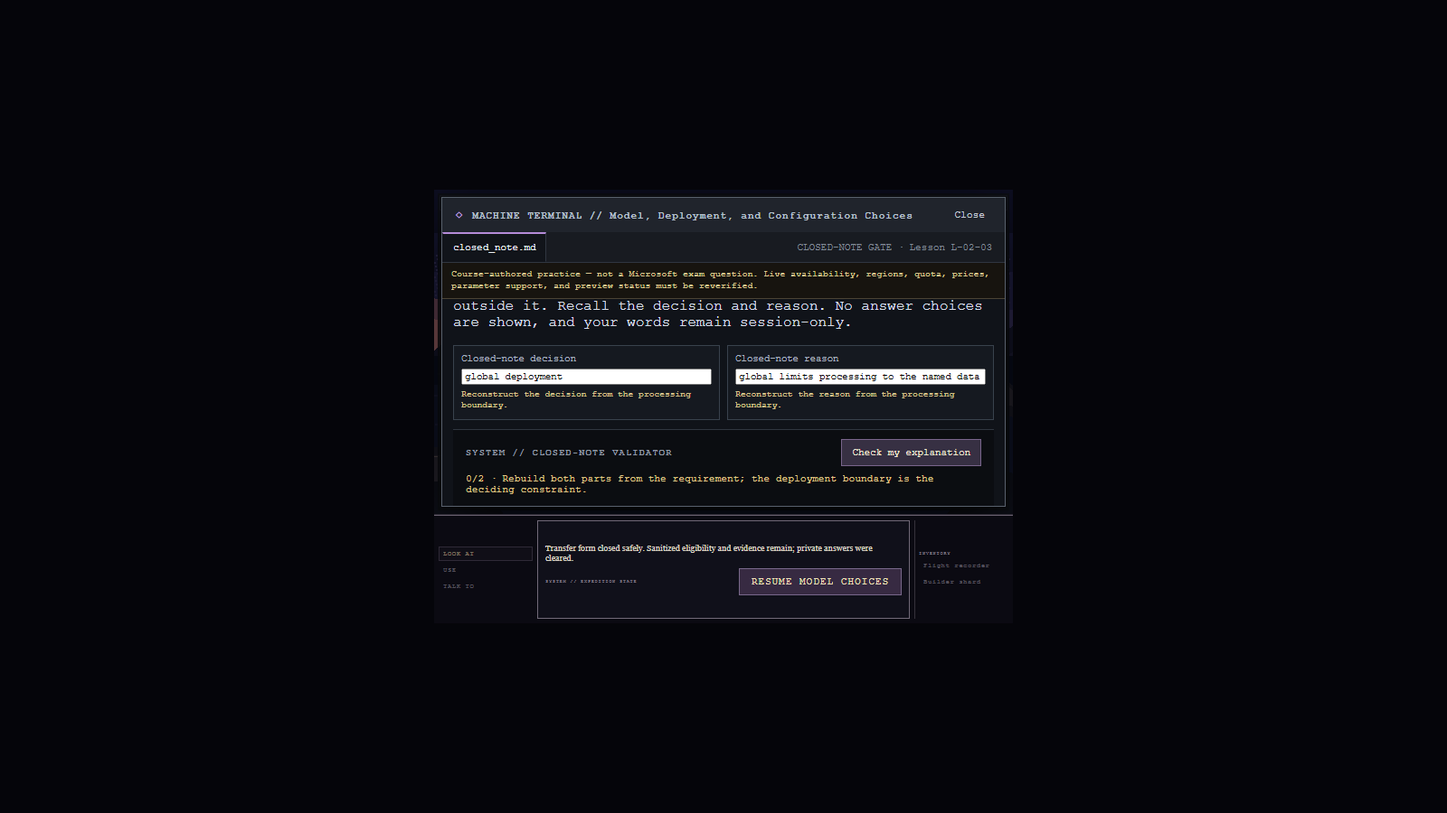
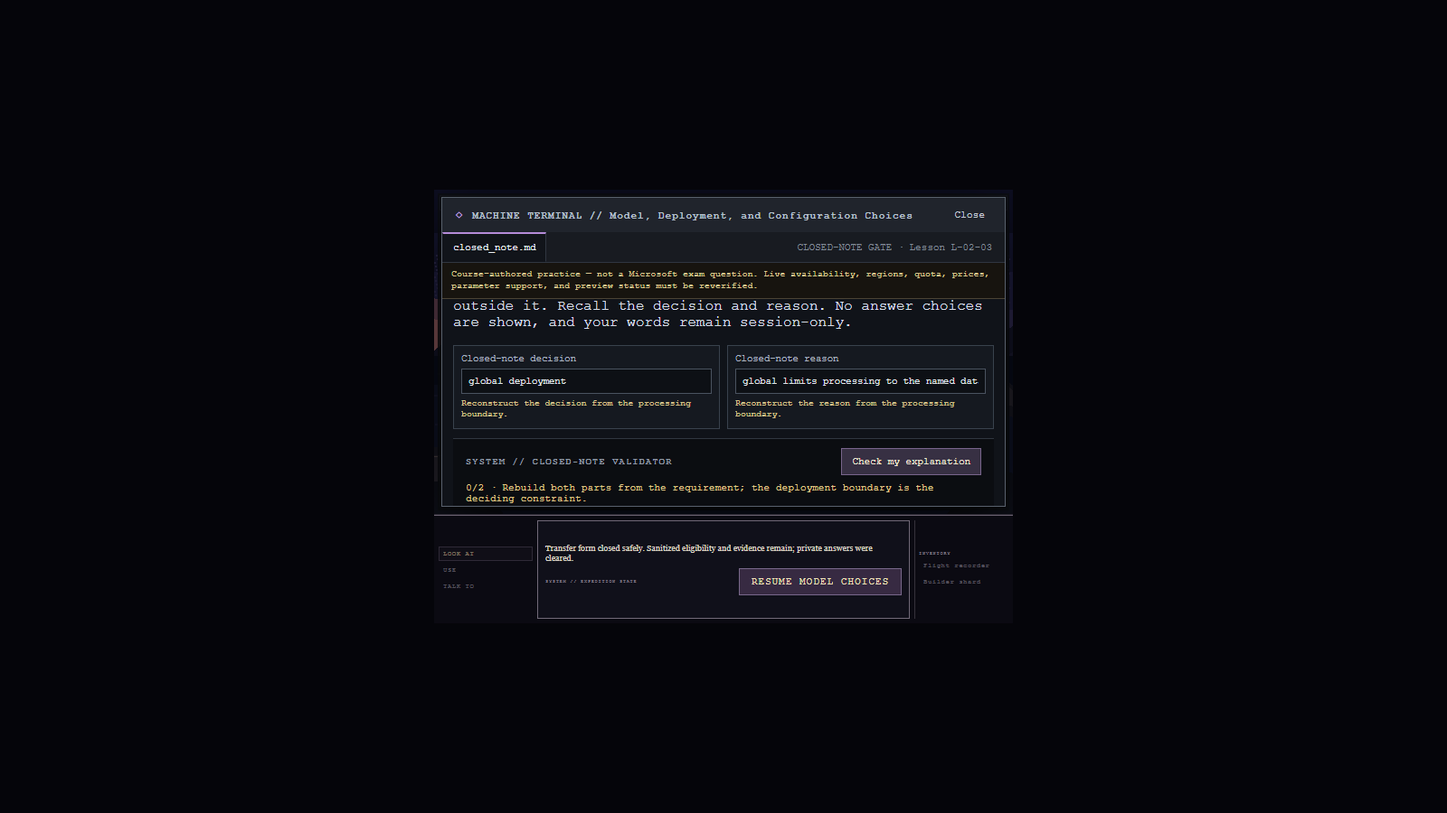
Round 13 step 2 Coder Agent checkpoint

Changed region(s): [[0.3125, 0.4356, 0.6875, 0.6222]]

diff --git a/horizon-archive-game/src/App.jsx b/horizon-archive-game/src/App.jsx
@@ -130,6 +130,19 @@ import {
   sanitizeClientBridgeEvidence,
   updateClientBridgeEvidence,
 } from "./clientBridgeExercise.js";
+import {
+  evaluateTextAnalysisExplanation,
+  evaluateTextAnalysisScenario,
+  getTextAnalysisOptions,
+  sanitizeTextAnalysisEvidence,
+  textAnalysisDimensions,
+  textAnalysisExercise,
+  textAnalysisExplanationDimensions,
+  textAnalysisPrimaryScenarios,
+  textAnalysisRemediation,
+  textAnalysisTransferScenarios,
+  updateTextAnalysisEvidence,
+} from "./textAnalysisExercise.js";
 
 const SAVE_KEY = "horizon-archive-prologue-v1";
 
@@ -310,6 +323,7 @@ function loadSave() {
       structuredPacketEvidence: sanitizeStructuredPacketEvidence(saved.structuredPacketEvidence),
       controlFlowEvidence: sanitizeControlFlowEvidence(saved.controlFlowEvidence),
       clientBridgeEvidence: sanitizeClientBridgeEvidence(saved.clientBridgeEvidence),
+      textAnalysisEvidence: sanitizeTextAnalysisEvidence(saved.textAnalysisEvidence),
     };
   } catch {
     // A malformed local save should never prevent a new expedition.
@@ -354,6 +368,8 @@ export function App() {
   const [controlFlowEvidence, setControlFlowEvidence] = useState(null);
   const [clientBridgeSession, setClientBridgeSession] = useState(null);
   const [clientBridgeEvidence, setClientBridgeEvidence] = useState(null);
+  const [textAnalysisSession, setTextAnalysisSession] = useState(null);
+  const [textAnalysisEvidence, setTextAnalysisEvidence] = useState(null);
   const terminalTriggerRef = useRef(null);
   const continueButtonRef = useRef(null);
   const focusContinueAfterStructuredRef = useRef(false);
@@ -417,9 +433,10 @@ export function App() {
         structuredPacketEvidence,
         controlFlowEvidence,
         clientBridgeEvidence,
+        textAnalysisEvidence,
       }));
     }
-  }, [mode, sceneIndex, completed, pendingAdvance, scene.id, exerciseEvidence, workloadEvidence, evidencePacketMastery, routeMarkerMastery, calibrationMastery, responsibleAIEvidence, modelChoiceEvidence, structuredPacketEvidence, controlFlowEvidence, clientBridgeEvidence]);
+  }, [mode, sceneIndex, completed, pendingAdvance, scene.id, exerciseEvidence, workloadEvidence, evidencePacketMastery, routeMarkerMastery, calibrationMastery, responsibleAIEvidence, modelChoiceEvidence, structuredPacketEvidence, controlFlowEvidence, clientBridgeEvidence, textAnalysisEvidence]);
 
   useLayoutEffect(() => {
     if (!focusContinueAfterStructuredRef.current || terminalOpen || structuredPacketEvidence?.masteryStatus !== "mastered") return;
@@ -475,6 +492,8 @@ export function App() {
     setControlFlowEvidence(null);
     setClientBridgeSession(null);
     setClientBridgeEvidence(null);
+    setTextAnalysisSession(null);
+    setTextAnalysisEvidence(null);
     setMode("playing");
   }
 
@@ -504,6 +523,8 @@ export function App() {
     if (saved.clientBridgeEvidence?.masteryStatus === "mastered") focusContinueAfterClientRef.current = true;
     setClientBridgeEvidence(saved.clientBridgeEvidence);
     setClientBridgeSession(null);
+    setTextAnalysisEvidence(saved.textAnalysisEvidence);
+    setTextAnalysisSession(null);
     setResponsibleAIEvidence(saved.responsibleAIEvidence);
     setResponsibleAISession(null);
     setModelChoiceEvidence(saved.modelChoiceEvidence);
@@ -1140,6 +1161,15 @@ export function App() {
   function advanceClientBridgeExplanation() { if (!clientBridgeSession.retrievalResult?.passed) return; setClientBridgeSession({ ...clientBridgeSession, form: "explanation", phase: "explanation", retrievalResult: null }); setClientBridgeEvidence((previous) => updateClientBridgeEvidence(previous, { form: "explanation", masteryStatus: "retrieval_complete" })); }
   function checkClientBridgeExplanation(event) { event.preventDefault(); const result = evaluateClientBridgeExplanation(clientBridgeSession.explanationResponse); setClientBridgeSession({ ...clientBridgeSession, explanationResult: result }); setClientBridgeEvidence((previous) => updateClientBridgeEvidence(previous, { form: "explanation", correctness: result.correctness, incrementAttempt: true, masteryStatus: "retrieval_complete" })); }
   function acknowledgeClientBridgeMastery() { if (!clientBridgeSession?.explanationResult?.passed || !clientBridgeSession.ownershipConfirmed || !clientBridgeEvidence?.confidence) return; focusContinueAfterClientRef.current = true; setClientBridgeEvidence((previous) => updateClientBridgeEvidence(previous, { form: "explanation", masteryStatus: "mastered", clearMisconceptionTags: true })); setClientBridgeSession(null); setTerminalOpen(false); setRuinsTerminalKind(null); setDialogue("Client Bridge mastery confirmed: both offline forms, retrieval, and closed-note layers are complete.", "teacher"); }
+
+  function openTextAnalysis() { setTerminalOpen(true); setRuinsTerminalKind("text-analysis"); if (!textAnalysisSession) { const form = textAnalysisEvidence?.masteryStatus === "primary_complete" ? "transfer" : textAnalysisEvidence?.masteryStatus === "transfer_complete" ? "explanation" : "primary"; setTextAnalysisSession({ form, phase: form === "explanation" ? "explanation" : "scenarios", index: 0, response: { decision: "", reason: "" }, result: null, hintLevel: 0, complete: false, explanationResponse: { requested_output: "", capability: "", document_id: "", mixed_result: "" }, explanationResult: null, ownershipConfirmed: false }); } }
+  function exitTextAnalysis() { setTerminalOpen(false); setRuinsTerminalKind(null); setDialogue("Text Analysis practice closed safely. Choices and explanation remain session-only.", "system"); }
+  function checkTextAnalysis(event) { event.preventDefault(); const scenarios = textAnalysisSession.form === "transfer" ? textAnalysisTransferScenarios : textAnalysisPrimaryScenarios; const scenario = scenarios[textAnalysisSession.index]; const result = evaluateTextAnalysisScenario(scenario.id, textAnalysisSession.response, textAnalysisSession.form); const hintLevel = result.passed ? textAnalysisSession.hintLevel : Math.max(1, textAnalysisSession.hintLevel); setTextAnalysisSession({ ...textAnalysisSession, result, hintLevel }); setTextAnalysisEvidence((previous) => updateTextAnalysisEvidence(previous, { form: textAnalysisSession.form, scenarioId: scenario.id, correctness: result.correctness, incrementAttempt: true, hintLevel, misconceptionTags: result.misconceptionTags, masteryStatus: textAnalysisSession.form === "transfer" ? "primary_complete" : result.passed ? "in_progress" : "remediation_required" })); }
+  function revealTextAnalysisHint() { const hintLevel = Math.min(3, textAnalysisSession.hintLevel + 1); setTextAnalysisSession({ ...textAnalysisSession, hintLevel }); setTextAnalysisEvidence((previous) => updateTextAnalysisEvidence(previous, { hintLevel })); }
+  function advanceTextAnalysis() { if (!textAnalysisSession.result?.passed) return; const scenarios = textAnalysisSession.form === "transfer" ? textAnalysisTransferScenarios : textAnalysisPrimaryScenarios; if (textAnalysisSession.index === scenarios.length - 1) { if (textAnalysisSession.form === "transfer") { setTextAnalysisEvidence((previous) => updateTextAnalysisEvidence(previous, { form: "explanation", masteryStatus: "transfer_complete", clearMisconceptionTags: true })); setTextAnalysisSession({ ...textAnalysisSession, form: "explanation", phase: "explanation", result: null, hintLevel: 0 }); } else setTextAnalysisSession({ ...textAnalysisSession, complete: true }); return; } setTextAnalysisSession({ ...textAnalysisSession, index: textAnalysisSession.index + 1, response: { decision: "", reason: "" }, result: null, hintLevel: 0 }); }
+  function acknowledgeTextAnalysisPrimary() { if (!textAnalysisSession?.complete || !textAnalysisEvidence?.confidence) return; setTextAnalysisEvidence((previous) => updateTextAnalysisEvidence(previous, { form: "transfer", masteryStatus: "primary_complete", clearMisconceptionTags: true })); setTextAnalysisSession(null); setTerminalOpen(false); setRuinsTerminalKind(null); setDialogue("Text Analysis primary form complete at 12 of 12. Fresh transfer and closed-note workload choice remain.", "teacher"); }
+  function checkTextAnalysisExplanation(event) { event.preventDefault(); const result = evaluateTextAnalysisExplanation(textAnalysisSession.explanationResponse); setTextAnalysisSession({ ...textAnalysisSession, explanationResult: result }); setTextAnalysisEvidence((previous) => updateTextAnalysisEvidence(previous, { form: "explanation", scenarioId: "explanation", correctness: result.correctness, incrementAttempt: true, masteryStatus: "transfer_complete" })); }
+  function acknowledgeTextAnalysisMastery() { if (!textAnalysisSession?.explanationResult?.passed || !textAnalysisSession.ownershipConfirmed || !textAnalysisEvidence?.confidence) return; focusContinueAfterClientRef.current = true; setTextAnalysisEvidence((previous) => updateTextAnalysisEvidence(previous, { form: "explanation", masteryStatus: "mastered", clearMisconceptionTags: true })); setTextAnalysisSession(null); setTerminalOpen(false); setRuinsTerminalKind(null); setDialogue("Text Analysis mastery confirmed: both 12-of-12 forms and closed-note workload explanation are complete.", "teacher"); }
 
   function validateEvidenceOutput(event) {
     event.preventDefault();
@@ -1975,6 +2005,17 @@ export function App() {
             </section>
           </TerminalShell>
         )}
+        {terminalOpen && scene.id === "ruins" && ruinsTerminalKind === "text-analysis" && textAnalysisSession && (
+          <TerminalShell exerciseId={textAnalysisExercise.exercise_id} title="Offline Text Analysis" filename={textAnalysisSession.phase === "explanation" ? "closed_note.md" : `${textAnalysisSession.form}_workloads.json`} lessonId={textAnalysisExercise.lesson_id} statusText={textAnalysisSession.phase === "explanation" ? "CLOSED-NOTE GATE" : `${textAnalysisSession.form.toUpperCase()} ${textAnalysisSession.index + 1}/6`} closeLabel="Exit Text Analysis" restoreFocusTo={terminalTriggerRef.current} onClose={exitTextAnalysis}>
+            <section className="model-choice-workspace text-analysis-workspace"><p className="model-choice-boundary">COURSE-AUTHORED OFFLINE PRACTICE · no service call or document text. Reverify SDKs, operations, endpoints, authentication, languages, limits, regions, pricing, and preview status.</p>
+              {textAnalysisSession.phase === "explanation" ? (
+                <form className="model-choice-form" onSubmit={checkTextAnalysisExplanation}><header><p className="pane-label">PILOT // CLOSED-NOTE WORKLOAD OWNER</p><h2>Explain key phrase extraction and safe result correlation</h2><p>Bridge AI-901 “keyword extraction” wording to the service capability, then preserve document IDs and mixed success/error handling. Your words remain session-only.</p></header><div className="model-choice-fields text-analysis-explanation">{textAnalysisExplanationDimensions.map((dimension) => { const fieldResult = textAnalysisSession.explanationResult?.correctness[dimension]; const id = `text-explanation-${dimension}-feedback`; return <label key={dimension}><span>{dimension.replaceAll("_", " ")}</span><input aria-label={`Closed-note text analysis ${dimension}`} aria-invalid={textAnalysisSession.explanationResult ? !fieldResult : undefined} aria-describedby={textAnalysisSession.explanationResult ? id : undefined} autoComplete="off" value={textAnalysisSession.explanationResponse[dimension]} onChange={(event) => setTextAnalysisSession({ ...textAnalysisSession, explanationResponse: { ...textAnalysisSession.explanationResponse, [dimension]: event.target.value }, explanationResult: null, ownershipConfirmed: false })} />{textAnalysisSession.explanationResult && <small id={id}>{fieldResult ? "SYSTEM // Dimension confirmed." : `901 TEACHER // Rebuild ${dimension.replaceAll("_", " ")} from the requested output and batch flow.`}</small>}</label>; })}</div><section className="terminal-console model-choice-output"><div className="console-heading-row"><strong>SYSTEM // CLOSED-NOTE VALIDATOR</strong><button className="run-action" type="submit" disabled={textAnalysisExplanationDimensions.some((key) => !textAnalysisSession.explanationResponse[key])}>Check workload explanation</button></div><div className={textAnalysisSession.explanationResult ? "console-feedback active" : "console-feedback"} role="status" aria-live="polite">{textAnalysisSession.explanationResult ? `${textAnalysisSession.explanationResult.score}/4 · ${textAnalysisSession.explanationResult.passed ? "Complete workload explanation confirmed." : "901 TEACHER // Name output, capability bridge, stable ID, and per-document error branch."}` : "No document text, service result, or answer choices are shown."}</div>{textAnalysisSession.explanationResult?.passed && <><label className="ownership-confirmation"><input type="checkbox" checked={textAnalysisSession.ownershipConfirmed} onChange={(event) => setTextAnalysisSession({ ...textAnalysisSession, ownershipConfirmed: event.target.checked })} />I produced this workload explanation myself without notes.</label><fieldset className="confidence-group"><legend>Confidence after both forms</legend>{["low", "medium", "high"].map((value) => <label key={value}><input type="radio" name="text-analysis-confidence" checked={textAnalysisEvidence?.confidence === value} onChange={() => setTextAnalysisEvidence((previous) => updateTextAnalysisEvidence(previous, { confidence: value }))} />{value}</label>)}</fieldset><button className="confirm-action" type="button" disabled={!textAnalysisSession.ownershipConfirmed || !textAnalysisEvidence?.confidence} onClick={acknowledgeTextAnalysisMastery}>Acknowledge strict mastery</button></>}</section></form>
+              ) : textAnalysisSession.complete ? (
+                <section className="workload-summary"><p className="pane-label">901 TEACHER // PRIMARY FORM COMPLETE</p><h2>12 / 12 dimensions</h2><p>Four capabilities and both document-correlation/error-flow items pass. Fresh transfer and closed-note explanation remain.</p><fieldset className="confidence-group"><legend>Confidence after primary form</legend>{["low", "medium", "high"].map((value) => <label key={value}><input type="radio" name="text-primary-confidence" checked={textAnalysisEvidence?.confidence === value} onChange={() => setTextAnalysisEvidence((previous) => updateTextAnalysisEvidence(previous, { confidence: value }))} />{value}</label>)}</fieldset><button className="confirm-action" type="button" disabled={!textAnalysisEvidence?.confidence} onClick={acknowledgeTextAnalysisPrimary}>Acknowledge primary form</button></section>
+              ) : (() => { const scenarios = textAnalysisSession.form === "transfer" ? textAnalysisTransferScenarios : textAnalysisPrimaryScenarios; const scenario = scenarios[textAnalysisSession.index]; const options = getTextAnalysisOptions(scenario.id, textAnalysisSession.form); return <form className="model-choice-form" onSubmit={checkTextAnalysis}><header><p className="pane-label">{textAnalysisSession.form === "transfer" ? "FRESH TRANSFER" : "PRIMARY"} · PILOT // WORKLOAD OWNER · {scenario.id}</p><p className="model-choice-layer-labels">KEY PHRASES · ENTITIES · SENTIMENT · SUMMARY · DOCUMENT FLOW</p><h2>{scenario.prompt}</h2></header><div className="model-choice-fields">{textAnalysisDimensions.map((dimension) => { const fieldResult = textAnalysisSession.result?.correctness[dimension]; const id = `text-analysis-${dimension}-feedback`; return <label key={dimension}><span>{dimension}</span><select aria-label={`Text analysis ${dimension}`} aria-invalid={textAnalysisSession.result ? !fieldResult : undefined} aria-describedby={textAnalysisSession.result ? id : undefined} value={textAnalysisSession.response[dimension]} onChange={(event) => setTextAnalysisSession({ ...textAnalysisSession, response: { ...textAnalysisSession.response, [dimension]: event.target.value }, result: null })}><option value="">Choose one</option>{options[dimension].map((value) => <option key={value} value={value}>{formatChoice(value)}</option>)}</select>{textAnalysisSession.result && <small id={id}>{fieldResult ? "SYSTEM // Correct." : `901 TEACHER // Review the ${dimension} from the requested output and attribution requirement.`}</small>}</label>; })}</div><section className="terminal-console model-choice-output"><div className="console-heading-row"><strong>SYSTEM // STRICT 12-DIMENSION VALIDATOR</strong><button className="run-action" type="submit" disabled={textAnalysisDimensions.some((key) => !textAnalysisSession.response[key])}>Check workload choice</button></div><div className={textAnalysisSession.result ? "console-feedback active" : "console-feedback"} role="status" aria-live="polite">{textAnalysisSession.result ? `${textAnalysisSession.result.score}/2 · ${textAnalysisSession.result.passed ? "Choice confirmed." : textAnalysisRemediation(scenario, textAnalysisSession.result, textAnalysisSession.hintLevel)}` : "Choose by requested output, then protect document attribution and mixed-result handling."}</div>{textAnalysisSession.result && !textAnalysisSession.result.passed && <button className="hint-action" type="button" disabled={textAnalysisSession.hintLevel >= 3} onClick={revealTextAnalysisHint}>Reveal next workload contrast</button>}{textAnalysisSession.result?.passed && <button className="confirm-action" type="button" onClick={advanceTextAnalysis}>{textAnalysisSession.index === 5 ? (textAnalysisSession.form === "transfer" ? "Begin closed-note explanation" : "View primary result") : "Next scenario"}</button>}</section></form>; })()}
+            </section>
+          </TerminalShell>
+        )}
         {terminalOpen && scene.id === "automaton" && evidenceSession && (
           <TerminalShell
             exerciseId={evidencePacketExercise.exercise_id}
@@ -2134,7 +2175,10 @@ export function App() {
                   {pendingAdvance && scene.id === "ruins" && controlFlowEvidence?.masteryStatus === "mastered" && clientBridgeEvidence?.masteryStatus !== "mastered" && (
                     <button ref={continueButtonRef} className="continue-action" data-terminal-focus-fallback onClick={(event) => { terminalTriggerRef.current = event.currentTarget; openClientBridge(); }}>{clientBridgeSession ? "Resume Client Bridge" : clientBridgeEvidence?.masteryStatus === "primary_complete" ? "Start Client Bridge Transfer" : clientBridgeEvidence?.masteryStatus === "transfer_complete" ? "Open Client Bridge Retrieval" : clientBridgeEvidence?.masteryStatus === "retrieval_complete" ? "Open Client Bridge Closed-Note Gate" : "Start Client Bridge"}</button>
                   )}
-                  {pendingAdvance && (scene.id !== "ruins" || clientBridgeEvidence?.masteryStatus === "mastered") && (
+                  {pendingAdvance && scene.id === "ruins" && clientBridgeEvidence?.masteryStatus === "mastered" && textAnalysisEvidence?.masteryStatus !== "mastered" && (
+                    <button ref={continueButtonRef} className="continue-action" data-terminal-focus-fallback onClick={(event) => { terminalTriggerRef.current = event.currentTarget; openTextAnalysis(); }}>{textAnalysisSession ? "Resume Text Analysis" : textAnalysisEvidence?.masteryStatus === "primary_complete" ? "Start Text Analysis Transfer" : textAnalysisEvidence?.masteryStatus === "transfer_complete" ? "Open Text Analysis Closed-Note Gate" : "Start Text Analysis"}</button>
+                  )}
+                  {pendingAdvance && (scene.id !== "ruins" || textAnalysisEvidence?.masteryStatus === "mastered") && (
                     <button ref={continueButtonRef} className="continue-action" data-terminal-focus-fallback onClick={continueJourney}>
                       {completed.length === scenes.length ? "Descend to the city" : "Continue"}
                     </button>

diff --git a/horizon-archive-game/src/textAnalysisExercise.js b/horizon-archive-game/src/textAnalysisExercise.js
@@ -1,0 +1,23 @@
+import exerciseAsset from "../../curriculum/lessons/L-04-01/exercise.json" with { type: "json" };
+import scenarioBank from "../../curriculum/lessons/L-04-01/scenario_bank.json" with { type: "json" };
+import answerKey from "../../curriculum/lessons/L-04-01/answer_key.json" with { type: "json" };
+
+export const textAnalysisExercise = exerciseAsset;
+export const textAnalysisPrimaryScenarios = scenarioBank.forms.primary;
+export const textAnalysisTransferScenarios = scenarioBank.forms.transfer;
+export const textAnalysisDimensions = exerciseAsset.dimensions;
+export const textAnalysisExplanationDimensions = ["requested_output", "capability", "document_id", "mixed_result"];
+const distractors = {
+  key_phrase_extraction: { decision: "named_entity_recognition", reason: "topic_determines_capability" }, named_entity_recognition: { decision: "key_phrase_extraction", reason: "important_words_are_always_entities" }, sentiment_analysis: { decision: "summarization", reason: "sentiment_is_a_shorter_version" }, summarization: { decision: "key_phrase_extraction", reason: "a_phrase_list_is_a_coherent_summary" },
+  P05: { decision: "drop_document_ids_after_submit", reason: "batch_order_alone_guarantees_attribution" }, P06: { decision: "assume_all_documents_succeeded", reason: "one_error_invalidates_or_replaces_all_results" }, T05: { decision: "use_document_position_only", reason: "positions_always_connect_errors_to_inputs" }, T06: { decision: "read_every_item_as_success", reason: "structured_results_never_mix_errors_and_successes" },
+};
+const tags = { key_phrase_extraction: "keywords-are-entities", named_entity_recognition: "keywords-are-entities", sentiment_analysis: "sentiment-is-summary", summarization: "summary-is-key-phrases", P05: "drops-document-id", T05: "drops-document-id", P06: "ignores-per-document-errors", T06: "ignores-per-document-errors" };
+const validTags = new Set(exerciseAsset.misconception_tags); const all = [...textAnalysisPrimaryScenarios, ...textAnalysisTransferScenarios];
+export function getTextAnalysisOptions(scenarioId, form = scenarioId?.startsWith("T") ? "transfer" : "primary") { const scenario = scenarioBank.forms[form].find((item) => item.id === scenarioId); const expected = answerKey.forms[form][scenarioId]; const wrong = distractors[scenarioId] || distractors[scenario.topic]; return { decision: [expected.decision, wrong.decision], reason: [expected.reason, wrong.reason] }; }
+export function evaluateTextAnalysisScenario(scenarioId, response, form = scenarioId?.startsWith("T") ? "transfer" : "primary") { const expected = answerKey.forms[form]?.[scenarioId]; if (!expected) return null; const correctness = Object.fromEntries(textAnalysisDimensions.map((key) => [key, response[key] === expected[key]])); const passed = Object.values(correctness).every(Boolean); const scenario = scenarioBank.forms[form].find((item) => item.id === scenarioId); return { correctness, score: Object.values(correctness).filter(Boolean).length, passed, misconceptionTags: passed ? [] : [tags[scenarioId] || tags[scenario.topic]] }; }
+function normalize(value) { return String(value ?? "").trim().toLowerCase().replace(/[^a-z0-9]+/g, "_").replace(/^_|_$/g, ""); }
+export function evaluateTextAnalysisExplanation(response) { const expected = { requested_output: "important_phrases_representing_main_concepts", capability: "key_phrase_extraction_keyword_extraction_bridge", document_id: "stable_id_correlates_each_input_result_or_error", mixed_result: "iterate_each_document_and_branch_success_or_error" }; const correctness = Object.fromEntries(textAnalysisExplanationDimensions.map((key) => [key, normalize(response[key]) === expected[key]])); return { correctness, score: Object.values(correctness).filter(Boolean).length, passed: Object.values(correctness).every(Boolean) }; }
+export function textAnalysisRemediation(scenario, result, level) { const missed = textAnalysisDimensions.filter((key) => !result.correctness[key]); if (level <= 1) return `Review ${missed.join(" and ")}: name the requested output, not the topic.`; if (level === 2) return `Contrast the nearest capability for this ${scenario.topic.replaceAll("_", " ")} item.`; return "Preserve the document ID and branch per document because one batch can mix results and errors."; }
+function formComplete(c, scenarios) { return scenarios.every((scenario) => textAnalysisDimensions.every((key) => c[scenario.id]?.[key] === true)); }
+export function sanitizeTextAnalysisEvidence(value) { if (!value || typeof value !== "object" || value.exerciseId !== exerciseAsset.exercise_id) return null; const dimensionCorrectness = {}; for (const scenario of [...all, { id: "explanation", dimensions: textAnalysisExplanationDimensions }]) { const keys = scenario.dimensions || textAnalysisDimensions; if (value.dimensionCorrectness?.[scenario.id]) dimensionCorrectness[scenario.id] = Object.fromEntries(keys.filter((key) => typeof value.dimensionCorrectness[scenario.id][key] === "boolean").map((key) => [key, value.dimensionCorrectness[scenario.id][key]])); } const strict = formComplete(dimensionCorrectness, textAnalysisPrimaryScenarios) && formComplete(dimensionCorrectness, textAnalysisTransferScenarios) && textAnalysisExplanationDimensions.every((key) => dimensionCorrectness.explanation?.[key] === true); let masteryStatus = ["in_progress", "remediation_required", "primary_complete", "transfer_complete", "mastered"].includes(value.masteryStatus) ? value.masteryStatus : "in_progress"; if (masteryStatus === "mastered" && !strict) masteryStatus = formComplete(dimensionCorrectness, textAnalysisTransferScenarios) ? "transfer_complete" : formComplete(dimensionCorrectness, textAnalysisPrimaryScenarios) ? "primary_complete" : "in_progress"; return { exerciseId: exerciseAsset.exercise_id, lessonId: exerciseAsset.lesson_id, activityId: exerciseAsset.activity_id, assessmentIds: [...exerciseAsset.assessment_ids], objectiveIds: [...exerciseAsset.objective_ids], skillIds: [...exerciseAsset.skill_ids], form: ["primary", "transfer", "explanation"].includes(value.form) ? value.form : "primary", dimensionCorrectness, attemptCount: Math.min(99, Math.max(0, Number.isInteger(value.attemptCount) ? value.attemptCount : 0)), hintLevel: Math.min(3, Math.max(0, Number.isInteger(value.hintLevel) ? value.hintLevel : 0)), confidence: ["low", "medium", "high"].includes(value.confidence) ? value.confidence : null, misconceptionTags: Array.isArray(value.misconceptionTags) ? [...new Set(value.misconceptionTags.filter((tag) => validTags.has(tag)))] : [], masteryStatus }; }
+export function updateTextAnalysisEvidence(previous, changes = {}) { const safe = sanitizeTextAnalysisEvidence(previous) || sanitizeTextAnalysisEvidence({ exerciseId: exerciseAsset.exercise_id }); const dimensionCorrectness = { ...safe.dimensionCorrectness }; if (changes.scenarioId && changes.correctness) dimensionCorrectness[changes.scenarioId] = changes.correctness; return sanitizeTextAnalysisEvidence({ ...safe, form: changes.form || safe.form, dimensionCorrectness, attemptCount: safe.attemptCount + (changes.incrementAttempt ? 1 : 0), hintLevel: Math.max(safe.hintLevel, changes.hintLevel || 0), confidence: changes.confidence || safe.confidence, misconceptionTags: changes.clearMisconceptionTags ? [] : [...safe.misconceptionTags, ...(changes.misconceptionTags || [])], masteryStatus: changes.masteryStatus || safe.masteryStatus }); }

diff --git a/horizon-archive-game/test/textAnalysisExercise.test.js b/horizon-archive-game/test/textAnalysisExercise.test.js
@@ -1,0 +1,6 @@
+import test from "node:test"; import assert from "node:assert/strict"; import primary from "../../curriculum/lessons/L-04-01/reference_primary_answers.json" with { type: "json" }; import transfer from "../../curriculum/lessons/L-04-01/reference_transfer_answers.json" with { type: "json" };
+import { evaluateTextAnalysisExplanation, evaluateTextAnalysisScenario, getTextAnalysisOptions, sanitizeTextAnalysisEvidence, textAnalysisPrimaryScenarios, textAnalysisTransferScenarios, updateTextAnalysisEvidence } from "../src/textAnalysisExercise.js";
+test("both packaged forms pass strict 12 of 12 and cover four capabilities plus flow", () => { for (const [form, scenarios, answers] of [["primary", textAnalysisPrimaryScenarios, primary], ["transfer", textAnalysisTransferScenarios, transfer]]) { assert.equal(scenarios.length, 6); assert.equal(scenarios.filter((s) => s.topic === "client_flow").length, 2); for (const scenario of scenarios) { assert.equal(evaluateTextAnalysisScenario(scenario.id, answers[scenario.id], form).score, 2); assert.ok(getTextAnalysisOptions(scenario.id, form).decision.includes(answers[scenario.id].decision)); } } });
+test("decision and reason remediate independently", () => { assert.deepEqual(evaluateTextAnalysisScenario("P06", { decision: primary.P06.decision, reason: "assume_all_succeeded" }, "primary").correctness, { decision: true, reason: false }); });
+test("closed-note workload explanation requires all four boundaries", () => { assert.equal(evaluateTextAnalysisExplanation({ requested_output: "important phrases representing main concepts", capability: "key phrase extraction keyword extraction bridge", document_id: "stable id correlates each input result or error", mixed_result: "wrong" }).score, 3); });
+test("mastery evidence requires both forms and explanation and strips text", () => { let e = updateTextAnalysisEvidence(null, {}); for (const [form, scenarios, answers] of [["primary", textAnalysisPrimaryScenarios, primary], ["transfer", textAnalysisTransferScenarios, transfer]]) for (const scenario of scenarios) e = updateTextAnalysisEvidence(e, { form, scenarioId: scenario.id, correctness: evaluateTextAnalysisScenario(scenario.id, answers[scenario.id], form).correctness }); e = updateTextAnalysisEvidence(e, { form: "explanation", scenarioId: "explanation", correctness: { requested_output: true, capability: true, document_id: true, mixed_result: true }, masteryStatus: "mastered" }); assert.equal(e.masteryStatus, "mastered"); const safe = sanitizeTextAnalysisEvidence({ ...e, documentText: "private", freeFormReasoning: "private", serviceResultBody: "private" }); for (const key of ["documentText", "freeFormReasoning", "serviceResultBody"]) assert.equal(key in safe, false); });

diff --git a/horizon-archive-game/src/styles.css b/horizon-archive-game/src/styles.css
@@ -321,7 +321,7 @@ h1 {
 .model-choice-layer-labels { margin: 4px 0; color: #d8c68f; font-size: 0.62rem; letter-spacing: 0.08em; }
 .model-choice-fields { display: grid; grid-template-columns: repeat(2, minmax(0, 1fr)); gap: 8px; align-content: start; min-height: 0; overflow: auto; }
 .model-choice-fields label { display: grid; align-content: start; gap: 5px; padding: 8px; color: #aeb7c3; background: #151920; border: 1px solid #39424d; font-size: 0.66rem; }
-.model-choice-fields select { width: 100%; min-width: 0; padding: 7px; color: #e0e5eb; background: #0d1015; border: 1px solid #4a5360; font: inherit; }
+.model-choice-fields select, .model-choice-fields input { width: 100%; min-width: 0; padding: 7px; color: #e0e5eb; background: #0d1015; border: 1px solid #4a5360; font: inherit; }
 .model-choice-fields select:focus-visible { outline: 2px solid #f0c96a; outline-offset: -3px; }
 .model-choice-fields small { color: #d6c28b; font-size: 0.6rem; line-height: 1.3; }
 .model-choice-output { min-height: 105px; }
@@ -528,6 +528,9 @@ h1 {
 .canonical-game-frame .terminal-workbench[data-terminal-exercise="EX-L0301-STRUCTURED-PACKETS"] { overflow: hidden; }
 .canonical-game-frame .terminal-workbench[data-terminal-exercise="EX-L0302-CONTROL-FLOW"] { overflow: hidden; }
 .canonical-game-frame .terminal-workbench[data-terminal-exercise="EX-L0303-CLIENT-BRIDGE"] { overflow: hidden; }
+.canonical-game-frame .terminal-workbench[data-terminal-exercise="EX-L0401-TEXT-ANALYSIS"] { overflow: hidden; }
+.text-analysis-explanation { grid-template-columns: repeat(4, minmax(0, 1fr)); }
+.canonical-game-frame[data-canonical-layout="narrow"] .text-analysis-explanation { grid-template-columns: 1fr; }
 .bridge-retrieval { overflow: auto; }
 .bridge-retrieval fieldset { margin: 6px 0; padding: 6px; color: #aeb7c3; border: 1px solid #39424d; font-size: 0.6rem; }
 .bridge-retrieval label { display: block; margin: 4px 0; }

diff --git a/Exercise Development/WORK_LOG.md b/Exercise Development/WORK_LOG.md
@@ -1,5 +1,16 @@
 # Exercise Agent Work Log
 
+## 2026-07-12 — L-04-01 Offline Text Analysis complete Terminal gate
+
+- **Outcome:** Added `EX-L0401-TEXT-ANALYSIS` as the mandatory offline Terminal after Client Bridge. Mastery requires packaged primary 12/12, fresh transfer 12/12, and a four-part closed-note workload-choice/correlation explanation. Progression remains blocked until completion; no L-04-02 gameplay was implemented.
+- **Learning contract:** Six cards per form cover key phrase extraction (including the AI-901 “keyword extraction” wording bridge), named entity recognition/entity detection, sentiment analysis/opinion mining, summarization, stable document-ID correlation, and per-document success/error branching for mixed batches. Choices are driven by requested output rather than topic.
+- **Safety/source boundary:** Every prompt is course-authored offline practice, not a Microsoft exam item or service response. No service call or learner document text exists in the Terminal. SDKs, operations, endpoints, authentication, languages, limits, regions, pricing, and preview status remain visibly volatile and require revalidation.
+- **Ownership/accessibility:** Pilot owns choices and closed-note explanation, System owns scoring, and the 901 Teacher owns remediation/readiness. Decision/reason and four explanation dimensions expose independent invalid states and associated feedback. Focus containment/restoration, close/reopen, reload, privacy, reduced motion, canonical 640×480, authored 320×240, and post-mastery focus remain covered.
+- **Evidence/privacy:** Persistence contains only allowlisted IDs, per-dimension booleans for both forms and explanation, attempts, maximum hint level, confidence, misconception tags, form, and mastery state. Document text, free-form reasoning, service bodies, runtime output, selections, prompts, and closed-note wording never enter storage.
+- **Files/validation:** Added `textAnalysisExercise.js` and tests; updated App, styles, manifest, E2E journey, this log, and three path-resolved captures. Curriculum self-test and both 12/12 references pass. All 69 unit tests and production build pass. Full browser coverage passes remediation, both forms, explanation, close/reopen, reload, privacy, focus, distinct captures, title-to-credits, and zero runtime errors.
+- **Next recommended item:** Player Agent should challenge capability near-misses, dropped IDs, mixed-error assumptions, forged evidence, keyboard-only traversal, phase reloads, and canonical/narrow presentation before L-04-02 work.
+- **Unresolved risks:** The fixed-choice evaluator mirrors the packaged offline curriculum contract. Live service behavior and catalog details are deliberately excluded and must be verified against current official documentation.
+
 ## 2026-07-12 — EX-L0303 Client Bridge continuity closure
 
 - **Outcome:** Closed the Client Bridge ownership, warning, and focus handoff without starting L-04-01 or L-04-02 gameplay. `SYSTEM` score lines for code, retrieval, and closed-note modes now contain only deterministic totals and pass/not-complete state; all safe-layer, credential, retrieval, and five-layer coaching renders in separate explicitly labeled `901 TEACHER` remediation regions.
